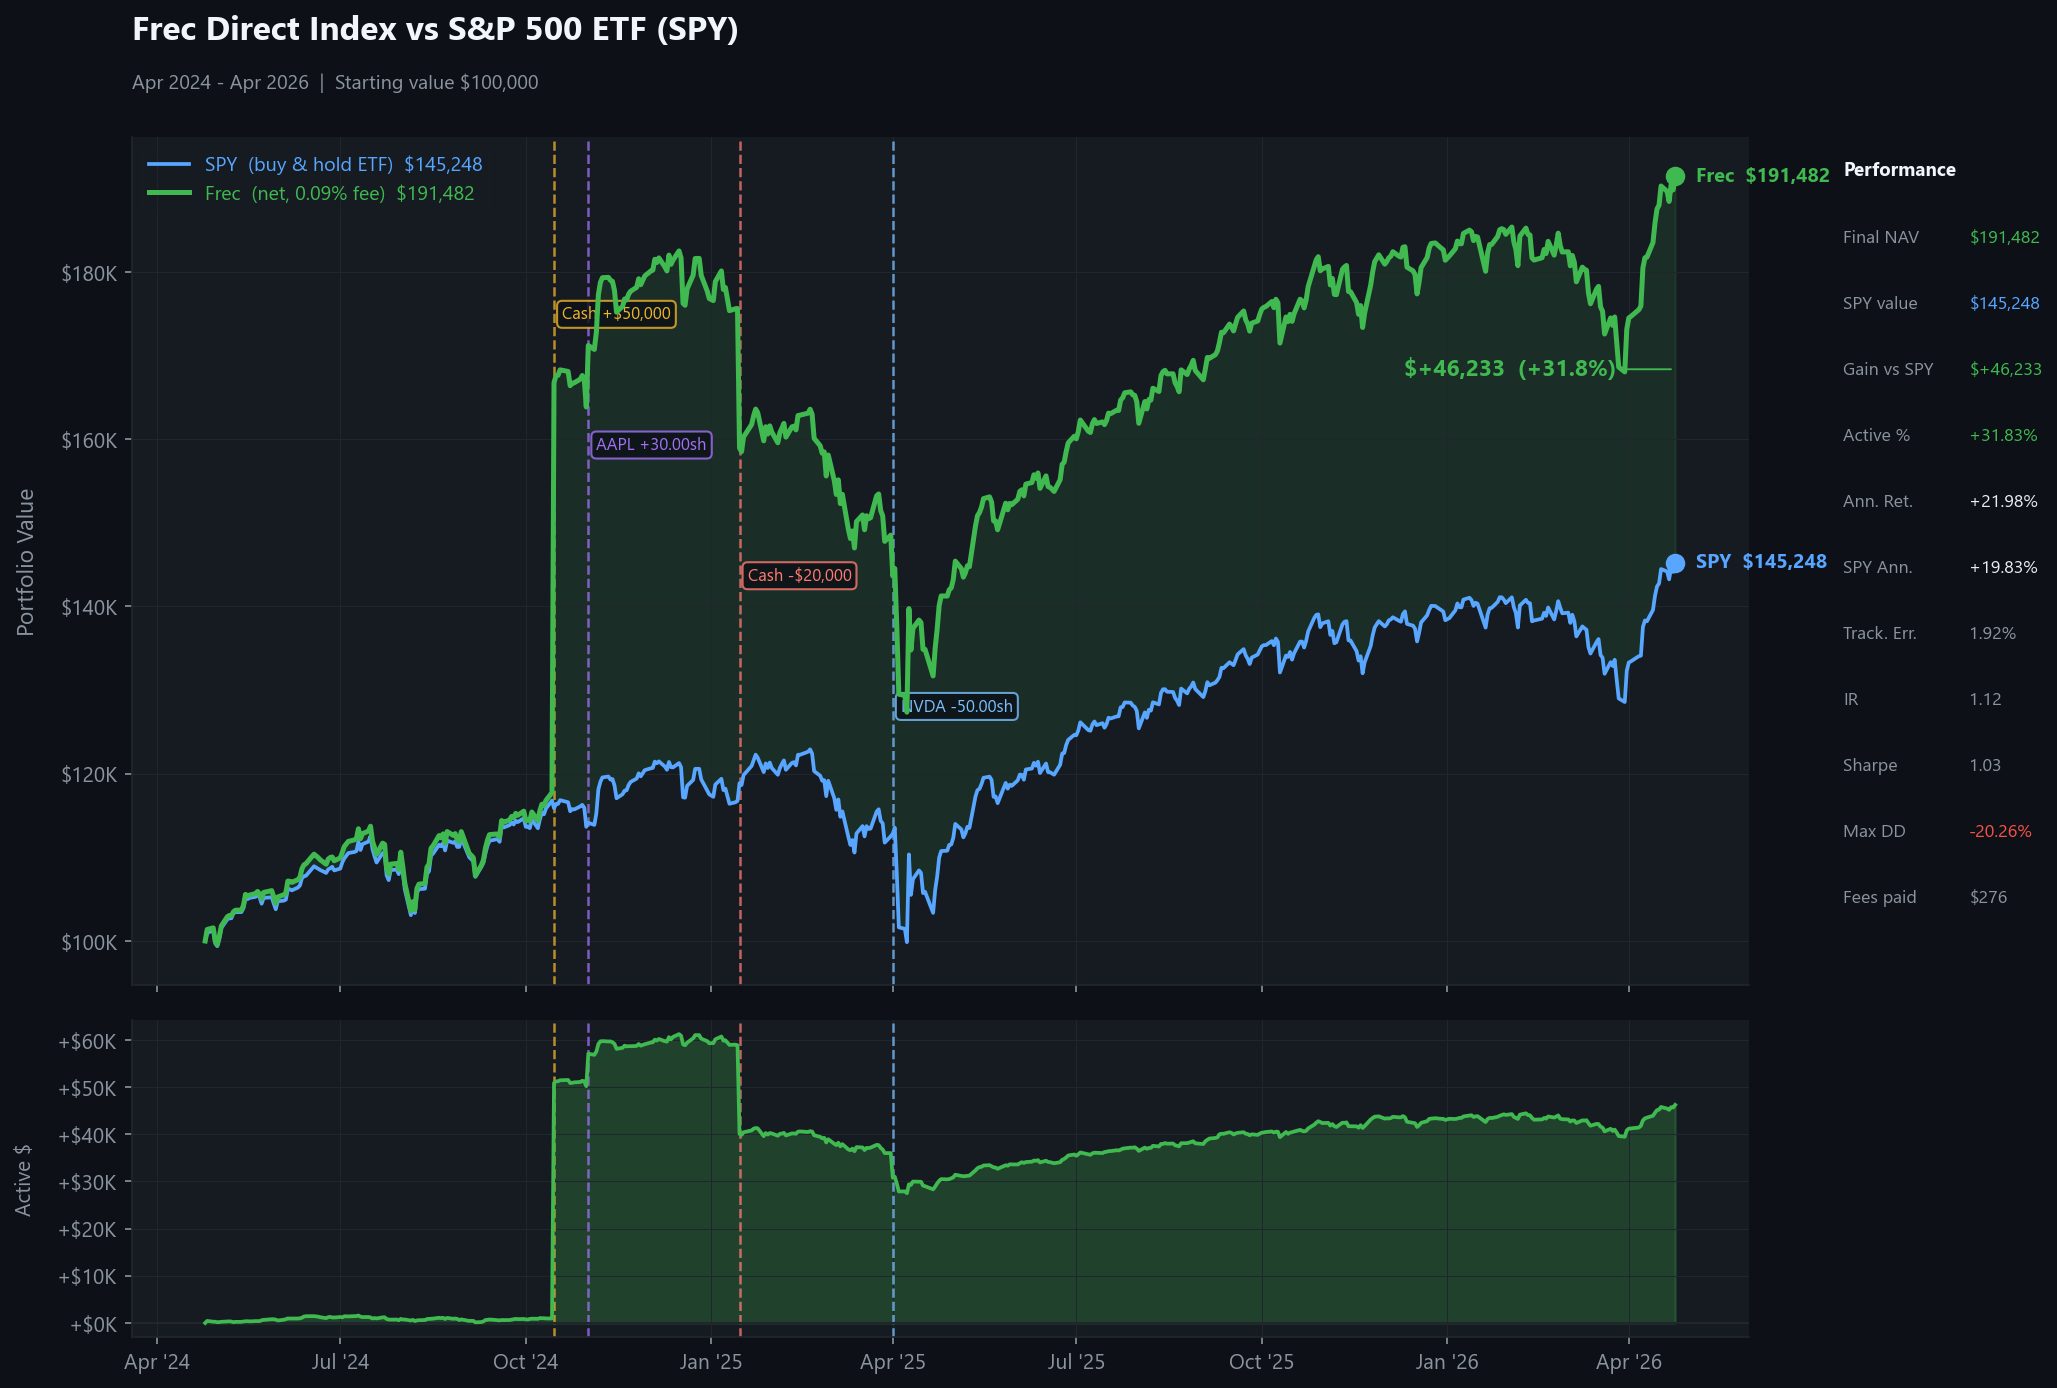
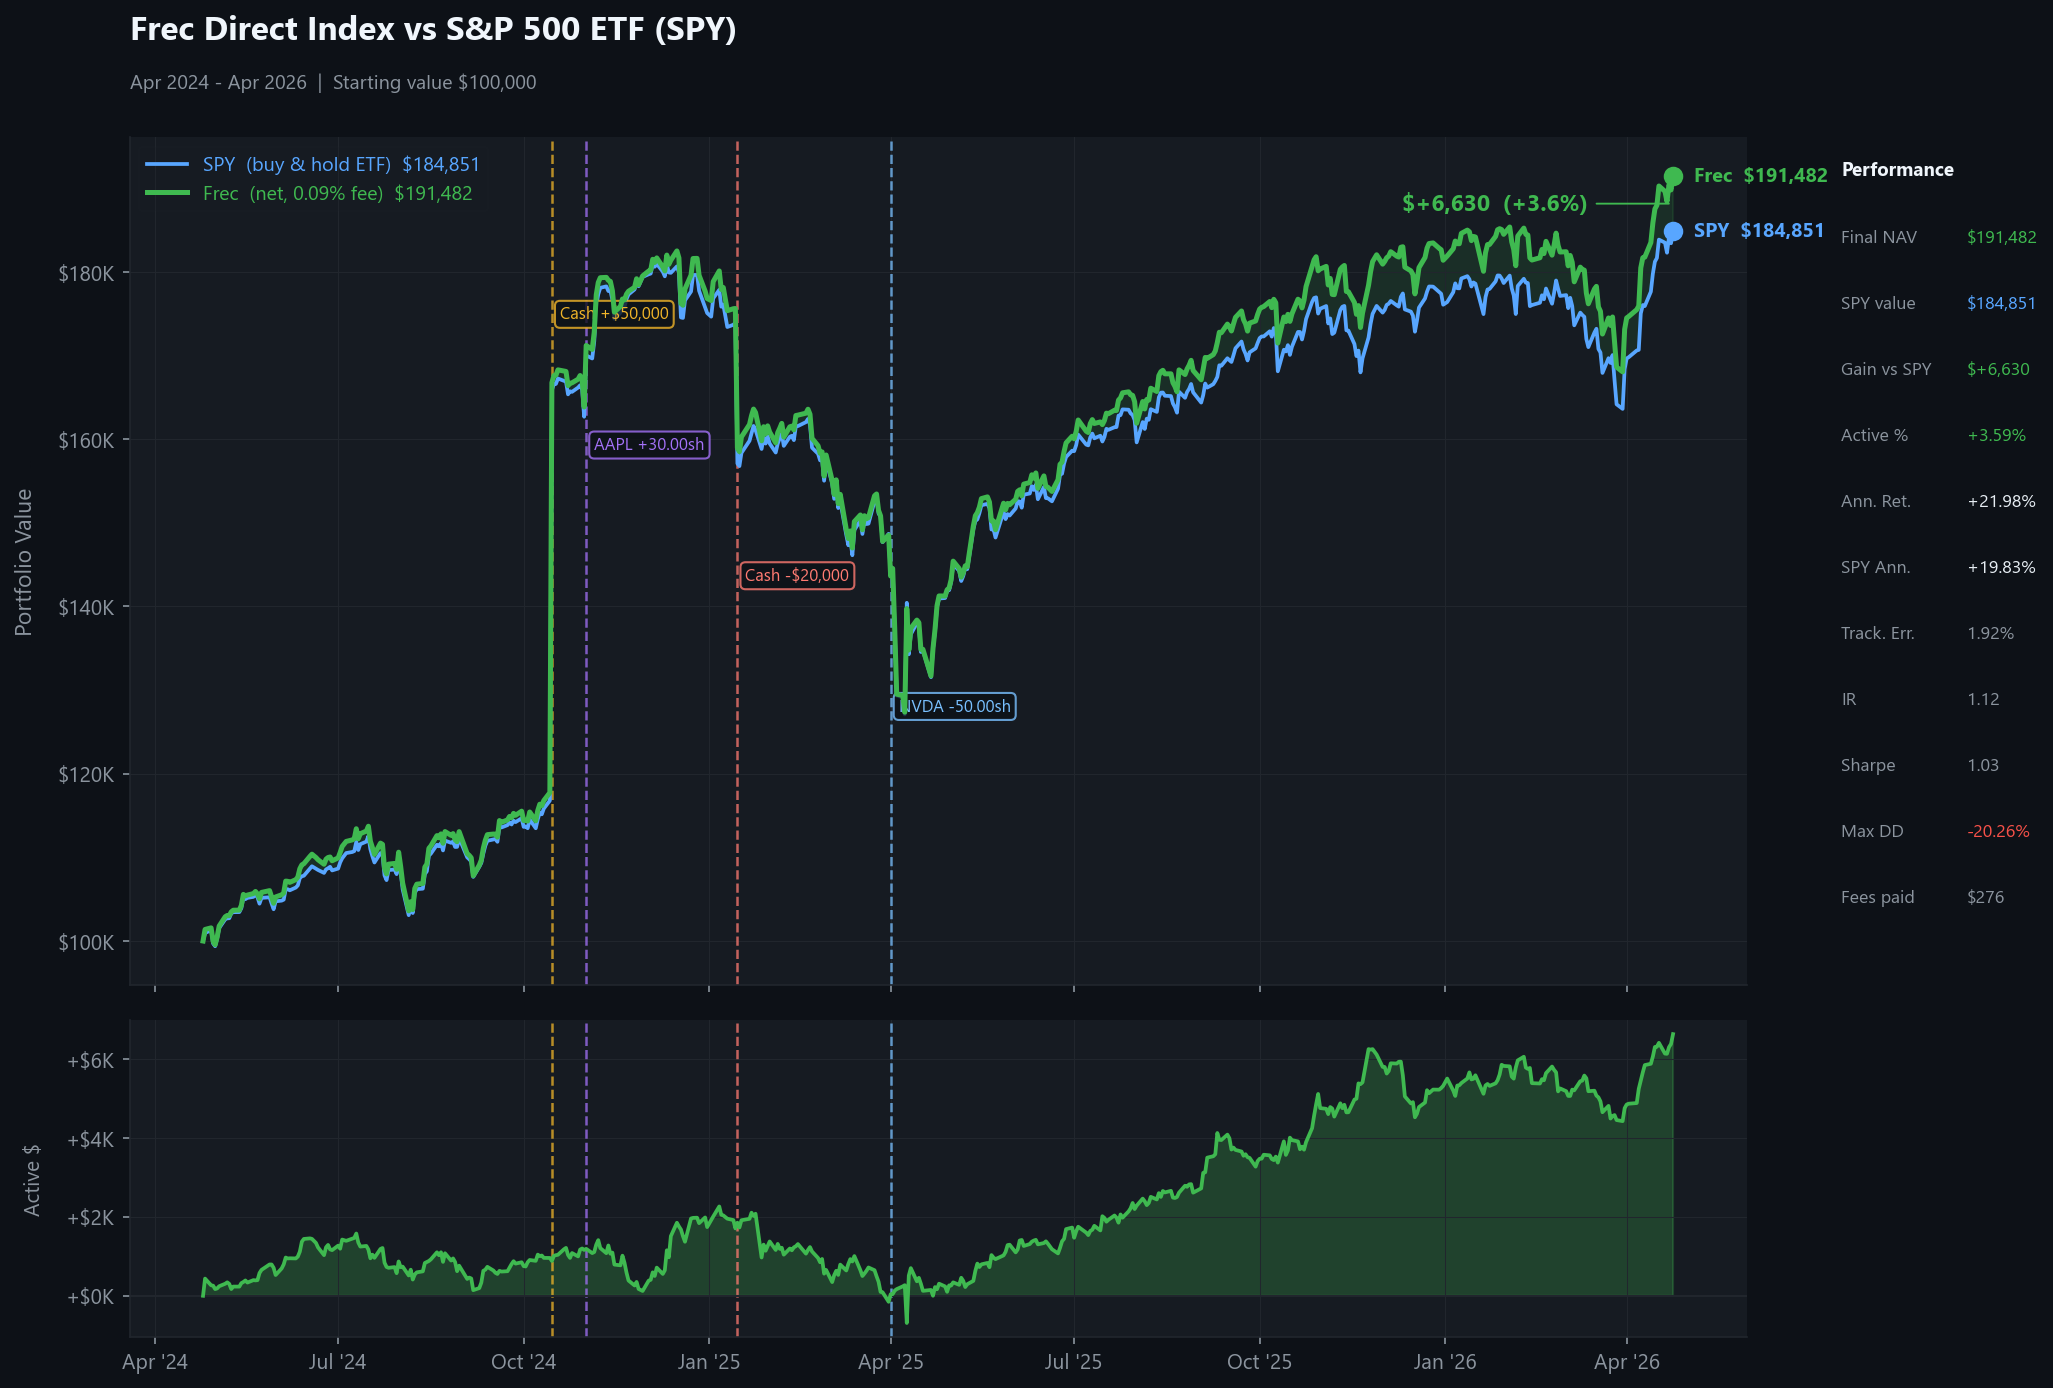
Adjust SPY benchmark with same flows as Frec portfolio
Previously SPY was just scaled to the same starting value, so any inflow
or outflow made the comparison unfair (Frec got the extra capital, SPY did
not). Now SPY NAV grows by its daily return each day and receives the same
dollar flow on each activity date, making gain vs SPY reflect pure
stock-selection outperformance only.

diff --git a/simulations/simulate_frec_portfolio.py b/simulations/simulate_frec_portfolio.py
@@ -145,10 +145,19 @@ def simulate_frec_portfolio(
     print(f"  CSV  → {csv_path}  ({len(sim)} rows × {len(sim.columns)} cols)")
 
     # ── Derived series ─────────────────────────────────────────────────────────
-    port_nav    = sim["total"]
-    dates       = port_nav.index
-    spy_aligned = spy_px.reindex(dates).ffill()
-    spy_nav     = spy_aligned / float(spy_aligned.iloc[0]) * float(port_nav.iloc[0])
+    port_nav = sim["total"]
+    dates    = port_nav.index
+
+    # Build a flow-adjusted SPY NAV: same starting value, grows by SPY's daily
+    # return each day, and receives the same dollar flow on each activity date.
+    # This makes the Frec vs SPY comparison purely about stock selection.
+    spy_daily_ret = spy_px.reindex(dates).ffill().pct_change().fillna(0.0)
+    flow_changes  = sim["net_flow"].diff().fillna(0.0)
+    spy_vals      = [float(port_nav.iloc[0])]
+    for i in range(1, len(dates)):
+        grown = spy_vals[-1] * (1.0 + float(spy_daily_ret.iloc[i]))
+        spy_vals.append(grown + float(flow_changes.iloc[i]))
+    spy_nav     = pd.Series(spy_vals, index=dates)
     outperf_usd = port_nav - spy_nav
 
     # ── Performance stats (activity dates excluded) ────────────────────────────
@@ -188,7 +197,7 @@ def simulate_frec_portfolio(
     print("  Frec Portfolio vs SPY")
     print("{:=<58}".format(""))
     print("  Final NAV        : ${:>12,.2f}".format(final_port))
-    print("  SPY (no flows)   : ${:>12,.2f}".format(final_spy))
+    print("  SPY (flow-adj.)  : ${:>12,.2f}".format(final_spy))
     print("  Gain vs SPY      : ${:>+12,.2f}  ({:+.2f}%)".format(gain_usd, gain_pct))
     print("  Fees paid        : -${:>11,.2f}".format(total_fees))
     print("  Ann. Return(net) : {:>+9.4f}%  (SPY {:>+.4f}%)".format(
@@ -288,7 +297,7 @@ def simulate_frec_portfolio(
 
     legend_elements = [
         Line2D([0], [0], color=SPY_COL,  lw=1.8,
-               label="SPY  (buy & hold ETF)  ${:,.0f}".format(int(final_spy))),
+               label="SPY  (flow-adjusted)  ${:,.0f}".format(int(final_spy))),
         Line2D([0], [0], color=FREC_COL, lw=2.4,
                label="Frec  (net, {:.2f}% fee)  ${:,.0f}".format(
                    annual_fee * 100, int(final_port))),
